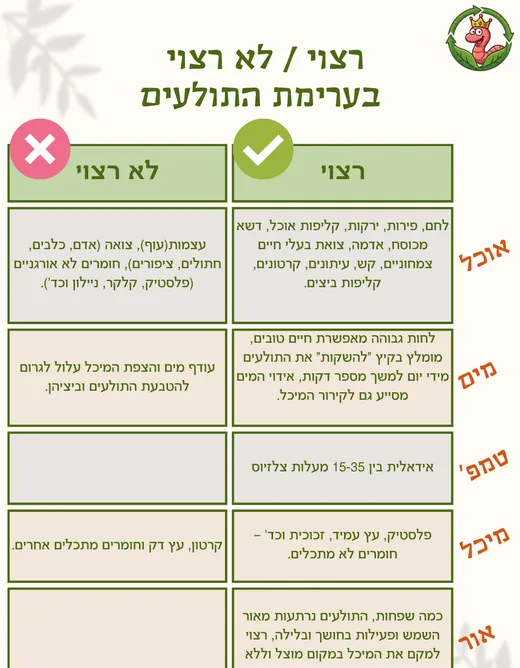
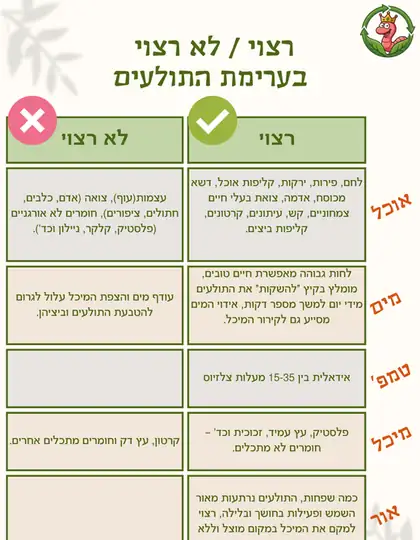
Info-sheet previews: lighter images (420px, q62) — 47KB total instead of 81KB
Claude-Session: https://claude.ai/code/session_01SJqQH4CjA12NcTB3RWFg1p

diff --git a/faq.html b/faq.html
@@ -74,11 +74,11 @@
     </div>
     <div class="downloads">
       <div class="download">
-        <div class="frame"><button type="button" class="embed-play" data-embed="https://www.canva.com/design/DAGgxIdGHn0/5JErZpLO3a79L9r6GaU-Zw/view?embed" data-title="רצוי ולא רצוי בערימת התולעים" aria-label="לצפייה: רצוי ולא רצוי בערימת התולעים"><img src="assets/img/dl-allowed.webp?v=2" alt="" width="520" height="668" loading="lazy"><span>לצפייה כאן</span></button></div>
+        <div class="frame"><button type="button" class="embed-play" data-embed="https://www.canva.com/design/DAGgxIdGHn0/5JErZpLO3a79L9r6GaU-Zw/view?embed" data-title="רצוי ולא רצוי בערימת התולעים" aria-label="לצפייה: רצוי ולא רצוי בערימת התולעים"><img src="assets/img/dl-allowed.webp?v=3" alt="" width="420" height="540" loading="lazy"><span>לצפייה כאן</span></button></div>
         <div class="meta"><h3>רצוי ולא רצוי בערימת התולעים</h3><a class="btn btn-ghost btn-small" href="https://www.canva.com/design/DAGgxIdGHn0/5JErZpLO3a79L9r6GaU-Zw/view" target="_blank" rel="noopener">לפתיחה</a></div>
       </div>
       <div class="download">
-        <div class="frame"><button type="button" class="embed-play" data-embed="https://www.canva.com/design/DAGg9-ND5vM/xlxmEPcPMBO4RYN-kgY5Jg/view?embed" data-title="קציר הומוס – מיני-קורס" aria-label="לצפייה: קציר הומוס – מיני-קורס"><img src="assets/img/dl-harvest.webp?v=2" alt="" width="520" height="668" loading="lazy"><span>לצפייה כאן</span></button></div>
+        <div class="frame"><button type="button" class="embed-play" data-embed="https://www.canva.com/design/DAGg9-ND5vM/xlxmEPcPMBO4RYN-kgY5Jg/view?embed" data-title="קציר הומוס – מיני-קורס" aria-label="לצפייה: קציר הומוס – מיני-קורס"><img src="assets/img/dl-harvest.webp?v=3" alt="" width="420" height="540" loading="lazy"><span>לצפייה כאן</span></button></div>
         <div class="meta"><h3>קציר הומוס – מיני-קורס</h3><a class="btn btn-ghost btn-small" href="https://www.canva.com/design/DAGg9-ND5vM/xlxmEPcPMBO4RYN-kgY5Jg/view" target="_blank" rel="noopener">לפתיחה</a></div>
       </div>
     </div>

diff --git a/src/faq.html b/src/faq.html
@@ -26,11 +26,11 @@
     </div>
     <div class="downloads">
       <div class="download">
-        <div class="frame"><button type="button" class="embed-play" data-embed="https://www.canva.com/design/DAGgxIdGHn0/5JErZpLO3a79L9r6GaU-Zw/view?embed" data-title="רצוי ולא רצוי בערימת התולעים" aria-label="לצפייה: רצוי ולא רצוי בערימת התולעים"><img src="assets/img/dl-allowed.webp?v=2" alt="" width="520" height="668" loading="lazy"><span>לצפייה כאן</span></button></div>
+        <div class="frame"><button type="button" class="embed-play" data-embed="https://www.canva.com/design/DAGgxIdGHn0/5JErZpLO3a79L9r6GaU-Zw/view?embed" data-title="רצוי ולא רצוי בערימת התולעים" aria-label="לצפייה: רצוי ולא רצוי בערימת התולעים"><img src="assets/img/dl-allowed.webp?v=3" alt="" width="420" height="540" loading="lazy"><span>לצפייה כאן</span></button></div>
         <div class="meta"><h3>רצוי ולא רצוי בערימת התולעים</h3><a class="btn btn-ghost btn-small" href="https://www.canva.com/design/DAGgxIdGHn0/5JErZpLO3a79L9r6GaU-Zw/view" target="_blank" rel="noopener">לפתיחה</a></div>
       </div>
       <div class="download">
-        <div class="frame"><button type="button" class="embed-play" data-embed="https://www.canva.com/design/DAGg9-ND5vM/xlxmEPcPMBO4RYN-kgY5Jg/view?embed" data-title="קציר הומוס – מיני-קורס" aria-label="לצפייה: קציר הומוס – מיני-קורס"><img src="assets/img/dl-harvest.webp?v=2" alt="" width="520" height="668" loading="lazy"><span>לצפייה כאן</span></button></div>
+        <div class="frame"><button type="button" class="embed-play" data-embed="https://www.canva.com/design/DAGg9-ND5vM/xlxmEPcPMBO4RYN-kgY5Jg/view?embed" data-title="קציר הומוס – מיני-קורס" aria-label="לצפייה: קציר הומוס – מיני-קורס"><img src="assets/img/dl-harvest.webp?v=3" alt="" width="420" height="540" loading="lazy"><span>לצפייה כאן</span></button></div>
         <div class="meta"><h3>קציר הומוס – מיני-קורס</h3><a class="btn btn-ghost btn-small" href="https://www.canva.com/design/DAGg9-ND5vM/xlxmEPcPMBO4RYN-kgY5Jg/view" target="_blank" rel="noopener">לפתיחה</a></div>
       </div>
     </div>
